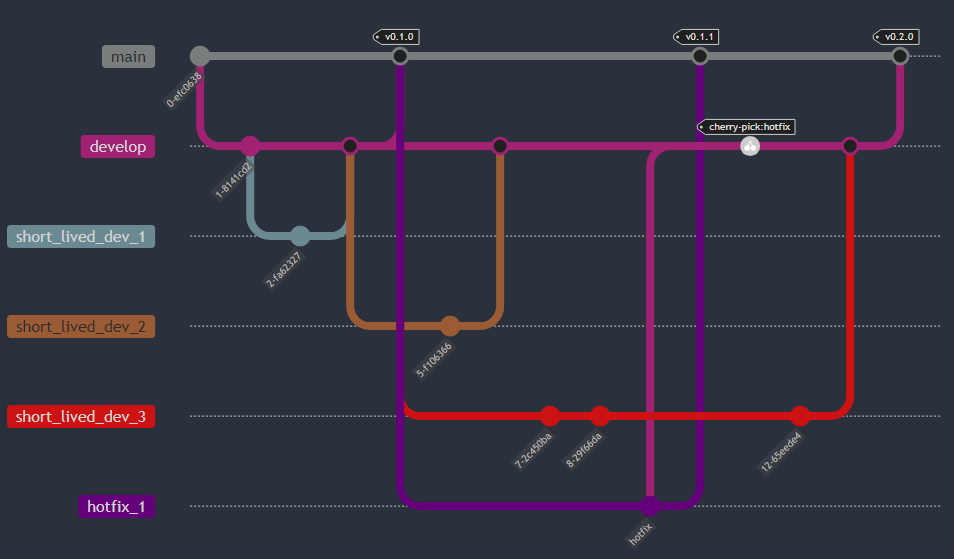
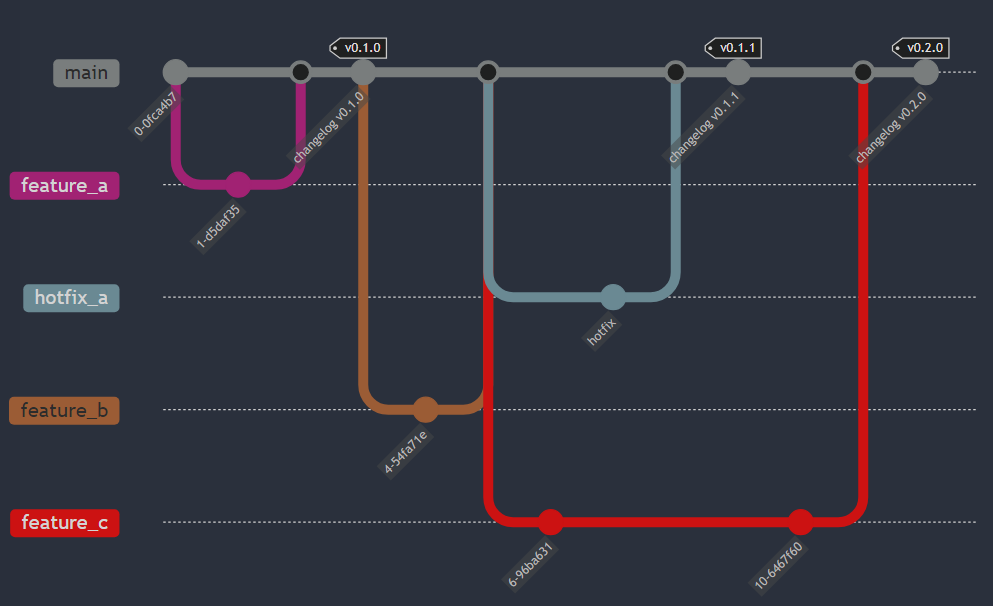
Updates to branching strategy

diff --git a/CONTRIBUTING.md b/CONTRIBUTING.md
@@ -153,9 +153,9 @@ Development is done using trunk-based development strategy.  Feature development
 
 As development nears completion, the code should move to the `_internal` subpackage and be exposed through our public facing API.  Docstrings, tutorials, how-tos, and other relevant deliverables should be prepared along-side.
 
-After merge requests in to `main` are completed, additional validation in the form of extensive functional tests are run.  On post-merge commit pipeline success, the build is tagged with `last-known-good`. On a regular cadence (TBD), a branch is created off of `main` to `releases/vX.X.X` and triggers release to PyPI and ReadTheDocs.
+After merge requests in to `main` are completed, additional validation in the form of functional tests are run.  On post-merge commit pipeline success, the build is tagged with `latest-known-good`. On a weekly cadence, a branch is created off of `main` to `releases/vX.X.X` and triggers release to PyPI and ReadTheDocs.
 
-Hotfixes for particular feauture relases are merged directly in to the relevant `releases/vX.X.X` branch and the change is cherry-picked in to `main`.
+Hotfixes are merged directly in to `main` and cherry-picked into the current `releases/vX.X.X` branch.
 
 ### Branching Diagram
 ![image info](.gitlab/branching.png)
@@ -165,20 +165,17 @@ Hotfixes for particular feauture relases are merged directly in to the relevant 
 - Pipelines will always run as baseline:
   - `build`, `linting`, `lite`, `docs`, `test`->`coverage` (or `functional` superset)
 - Feature work should happen in short-lived (as much as possible) branches off of `main`
-- Merge requests from features to `main` will trigger baseline run
-- TODO: Completed merge requests in to `main` will trigger baseline run with functional tests and
+- Merge request pipelines from features to `main` will trigger baseline run
+- Completed merge requests in to `main` will trigger commit pipeline with with functional tests and
   - Run additional jobs: `tag release candidate`, `pages`->`pages:deploy`
     - `pages`->`pages:deploy`: pushes artifacts from docs to pages html server
-    - `tag release candidate`: adds the `last-known-good` tag to the build on successful run of tests
-- TODO: At some cadence TBD, a scheduled pipeline will run against `last-known-good` tag
-  - Run additional jobs: `create release branch`
-- TODO: Hotfixes branch from the relevant `releases/vX.X.X` and are merged back in
-  - The commit for the hotfix will then be cherry-picked in to `main`
-- New branches in the `releases/vX.X.X` path will trigger baseline and additionally
-  - Run additional jobs: `changelog`, `publish`, `tag`
-  - TODO: `changelog`: updates the changelog in `main` with new features and cherry picks change into `releases/vX.X.X`
+    - `tag release candidate`: adds the `latest-known-good` tag to the build on successful run of tests
+- A scheduled release pipeline runs on a weekly cadence against `latest-known-good` tag
+  - On success it will run additional jobs: `changelog`, `publish`, `tag`
+  - `changelog`: updates the changelog in with new features
   - `publish`: packages DAML and publishes to JATIC Gitlab internal repository
   - `tag`: adds an annotated tag with version number for the change
+- TODO: Hotfixes will be treated as a regular release but will be released immediately and the affected build will be yanked from pypi
 
 ### Github Actions
 - `.github/workflows/publish.yml`
